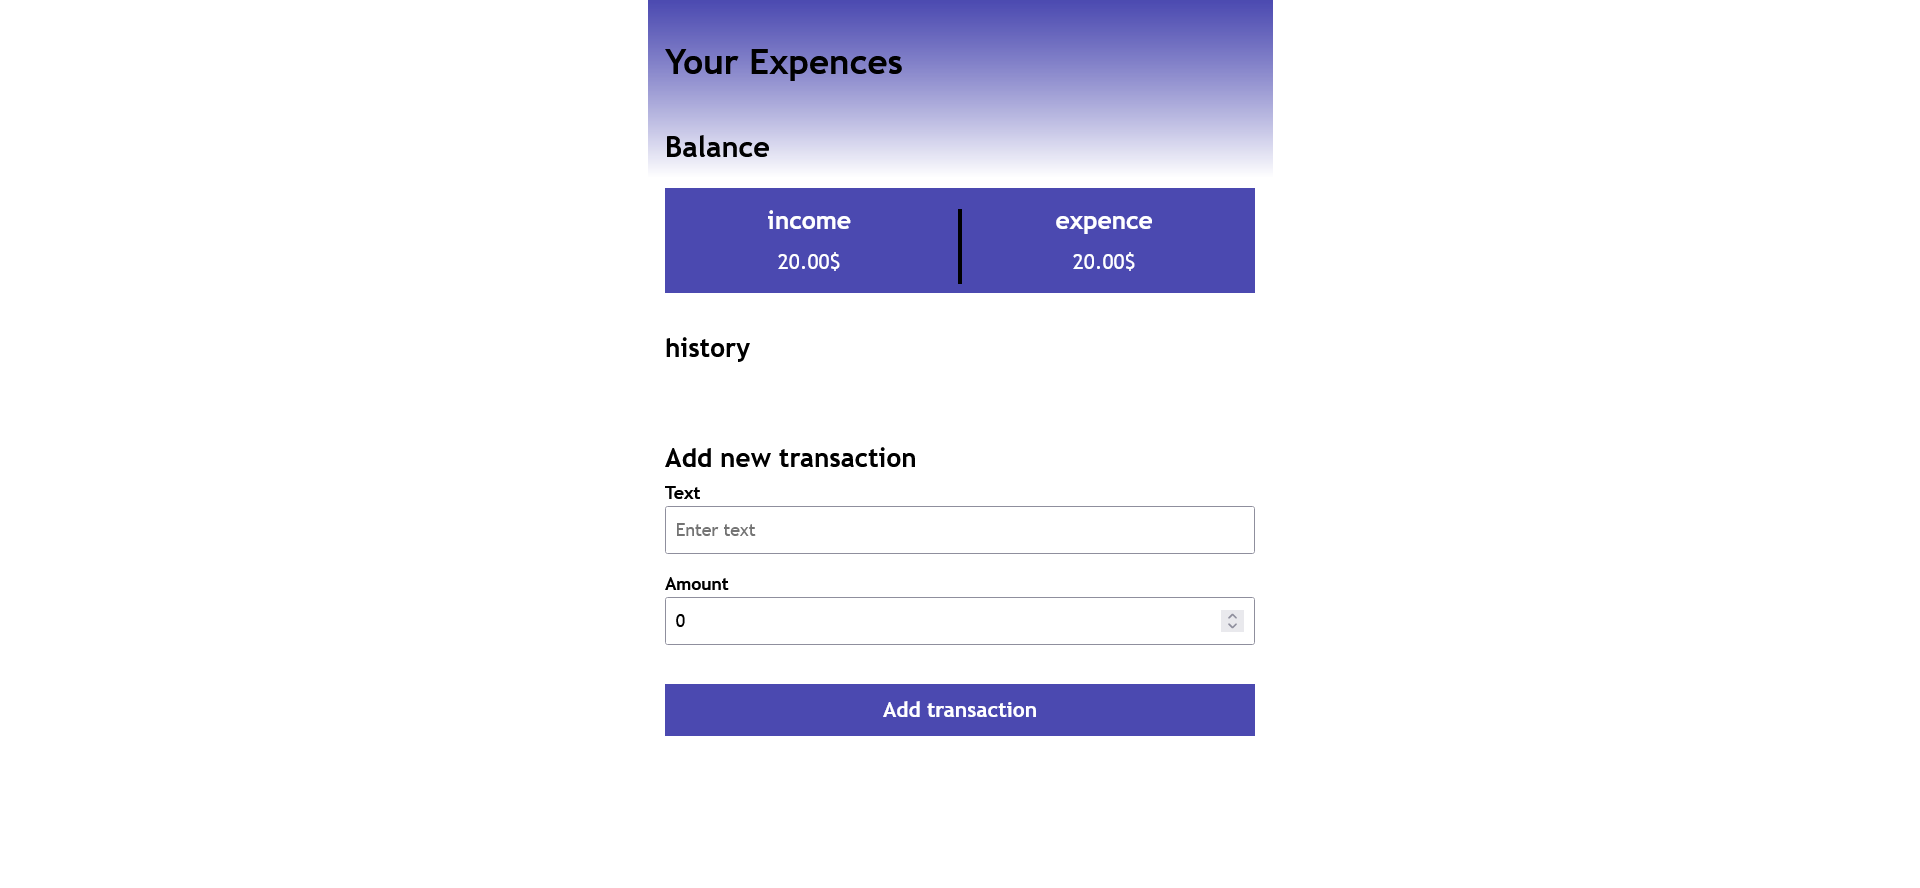
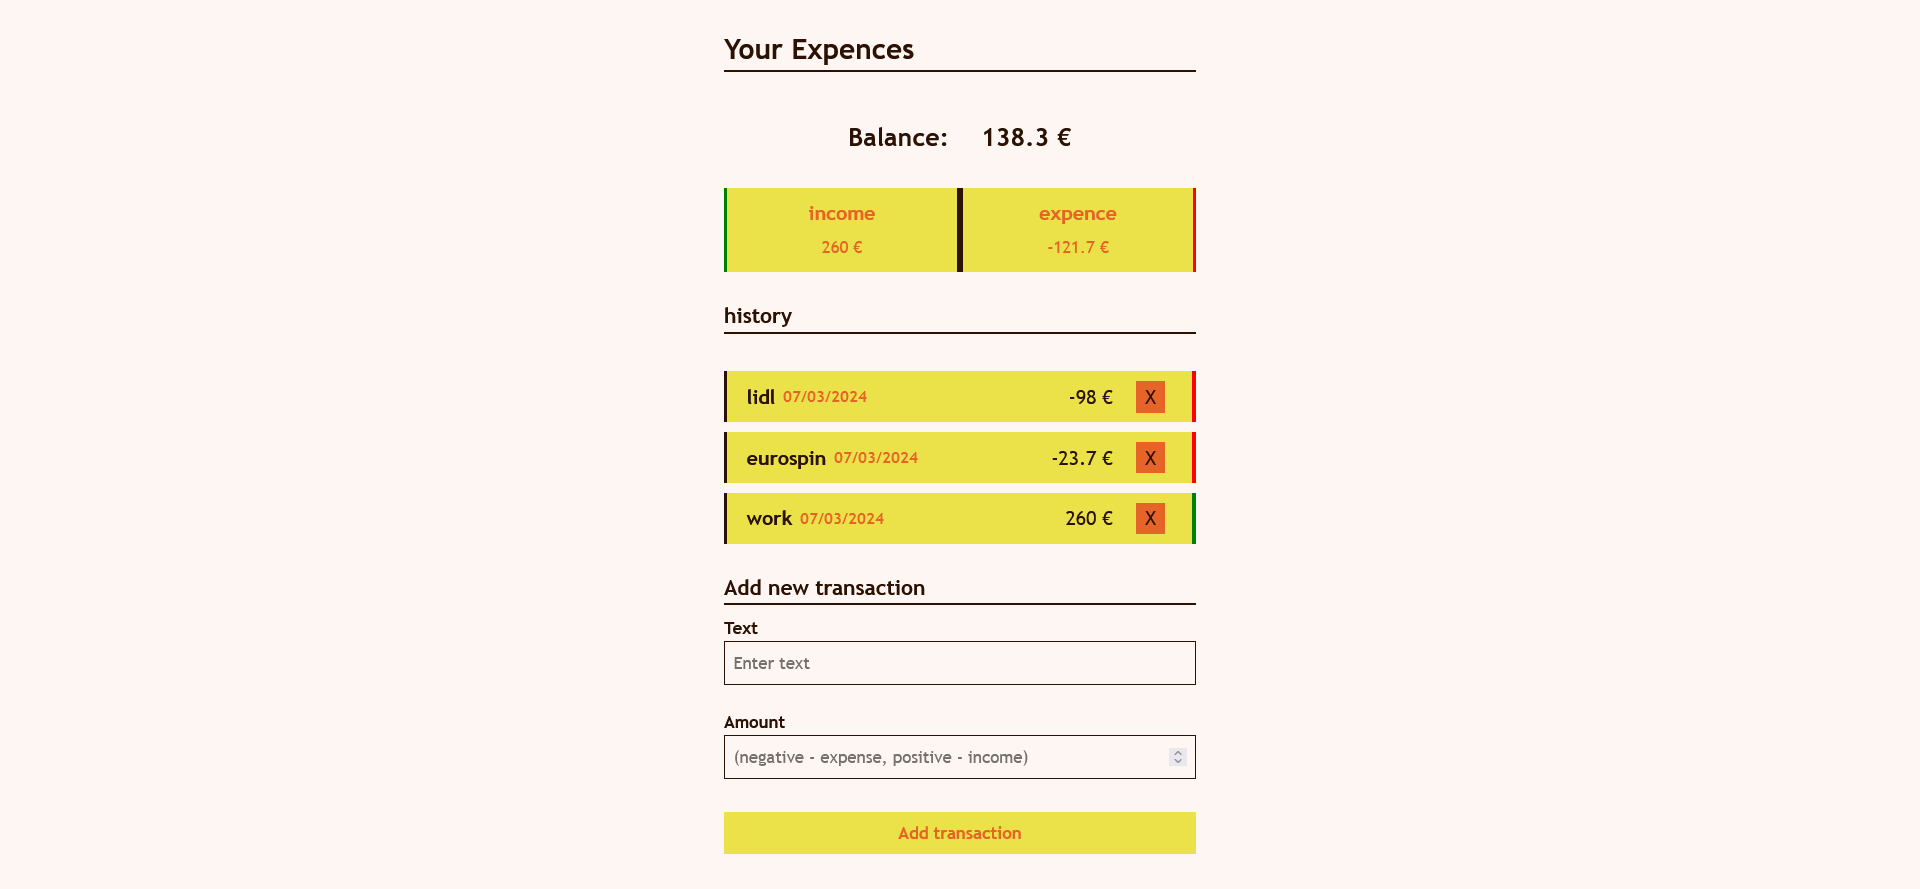
change screenshots

Changed region(s): [[0.3438, 0.2128, 0.6562, 0.8818], [0.3125, 0.0, 0.6875, 0.1824], [0.375, 0.9122, 0.625, 0.973]]

diff --git a/script.js b/script.js
@@ -1,5 +1,6 @@
 let storedHistory = JSON.parse(localStorage.getItem('history'));
 const historyArray = storedHistory || [];
+
 const transactionText = document.querySelector('.transaction-text');
 const transactionMoney = document.querySelector('.transaction-money');
 const transactionSubmit = document.querySelector('.transaction-submit');
@@ -26,10 +27,8 @@ function createElement(text, money) {
 	if (text && money) {
 		// create Date of saving
 		const time = new Date();
-		console.log(time);
 		const month = time.getMonth() + 1;
 		const day = time.getDate();
-		console.log(day);
 		const year = time.getFullYear();
 		const historyDate = `${day < 10 ? '0' + day : day}/${
 			month < 10 ? '0' + month : month
@@ -37,27 +36,32 @@ function createElement(text, money) {
 		//create Element
 		const div = document.createElement('div');
 		div.classList.add('history-detail');
+		div.style.backgroundImage =
+			money > 0
+				? `linear-gradient(90deg, rgba(0,128,0,1) 0%, rgb(253, 246, 242) 10%, rgb(253, 246, 242) 100%)`
+				: `linear-gradient(270deg, rgba(255,0,0,1) 0%, rgb(253, 246, 242) 10%, rgb(253, 246, 242) 100%)`;
+
 		const h4 = document.createElement('h4');
 		h4.classList.add('history-detail-title');
 		h4.innerText = text;
+
 		const dateElement = document.createElement('p');
 		dateElement.classList.add('date');
 		dateElement.innerText = historyDate;
+
 		const p = document.createElement('p');
 		p.classList.add('history-detail-money');
 		p.innerText = `${money} €`;
+
 		const button = document.createElement('button');
 		button.classList.add('button');
 		button.innerText = 'X';
 		button.addEventListener('click', () => remove(button));
-		const colorDiv = document.createElement('div');
-		colorDiv.classList.add('history-detail-color');
-		colorDiv.style.backgroundColor = money > 0 ? 'green' : 'red';
+
 		div.appendChild(h4);
 		div.appendChild(dateElement);
 		div.appendChild(p);
 		div.appendChild(button);
-		div.appendChild(colorDiv);
 		historySec.appendChild(div);
 		// creating an array of transactions
 		historyObj = {
@@ -89,27 +93,32 @@ function renderLocalStorage() {
 		storedHistory.forEach((item) => {
 			const div = document.createElement('div');
 			div.classList.add('history-detail');
+			div.style.background =
+				item.money > 0
+					? `linear-gradient(90deg, rgba(0,128,0,1) 0%, rgb(253, 246, 242) 10%, rgb(253, 246, 242) 100%)`
+					: `linear-gradient(270deg, rgba(255,0,0,1) 0%, rgb(253, 246, 242) 10%, rgb(253, 246, 242) 100%)`;
+
 			const h4 = document.createElement('h4');
 			h4.classList.add('history-detail-title');
 			h4.innerText = item.text;
+
 			const dateElement = document.createElement('p');
 			dateElement.classList.add('date');
 			dateElement.innerText = item.date;
+
 			const p = document.createElement('p');
 			p.classList.add('history-detail-money');
 			p.innerText = `${item.money} €`;
-			const colorDiv = document.createElement('div');
+
 			const button = document.createElement('button');
 			button.classList.add('button');
 			button.innerText = 'X';
 			button.setAttribute('data-id', item.id); // custom attribute for buttons
-			colorDiv.classList.add('history-detail-color');
-			colorDiv.style.backgroundColor = item.money > 0 ? 'green' : 'red';
+
 			div.appendChild(h4);
 			div.appendChild(dateElement);
 			div.appendChild(p);
 			div.appendChild(button);
-			div.appendChild(colorDiv);
 			historySec.appendChild(div);
 
 			const buttons = document.querySelectorAll('.button');

diff --git a/style.css b/style.css
@@ -63,8 +63,7 @@ select {
 
 :root {
 	--text-color: #2b1204;
-	--bg-color: #fdf6f2;
-	--accent-color: #eae248;
+	--bg-color: rgb(253, 246, 242);
 	--primary-color: #e66428;
 	--secondary-color: #f0d97f;
 }
@@ -139,20 +138,34 @@ body {
 
 .income,
 .expence {
-	background-color: var(--accent-color);
+	font-weight: 600;
+	background-color: var(--bg-color);
 	width: 100%;
-	font-size: 1.2em;
+	font-size: 1.3em;
 	line-height: 2em;
 	padding-block: 0.5em;
-	border-inline: 0.2em solid var(--text-color);
 }
 
 .income {
-	border-left: 0.2em solid green;
+	background: rgb(0, 128, 0);
+	background: linear-gradient(
+		90deg,
+		rgba(0, 128, 0, 1) 0%,
+		rgb(253, 246, 242) 30%,
+		rgb(253, 246, 242) 100%
+	);
+	border-left: 0.2em solid #008000;
 }
 
 .expence {
-	border-right: 0.2em solid red;
+	background: rgb(255, 0, 0);
+	background: linear-gradient(
+		270deg,
+		rgb(255, 0, 0) 0%,
+		rgb(253, 246, 242) 30%,
+		rgb(253, 246, 242) 100%
+	);
+	border-right: 0.2em solid hsl(0, 100%, 50%);
 }
 
 /* history section */
@@ -161,7 +174,14 @@ body {
 	border-bottom: 2px solid var(--text-color);
 }
 
+.history-detail-title {
+	/* min-width: 200px; */
+	max-width: 210px;
+	word-wrap: break-word;
+}
+
 .history-detail {
+	min-width: 440px;
 	font-size: 1.4em;
 
 	position: relative;
@@ -170,20 +190,15 @@ body {
 	justify-content: space-between;
 	align-items: center;
 
-	background-color: var(--accent-color);
 	color: var(--text-color);
 
 	margin-top: 0.5em;
 	padding: 0.5em 1em;
-	border-left: 0.2em solid var(--text-color);
 }
 
-.history-detail-color {
-	position: absolute;
-	background-color: green;
-	right: 0;
-	width: 0.2em;
-	height: 100%;
+.history-detail-money {
+	padding-left: 0.5em;
+	white-space: nowrap;
 }
 
 .date {
@@ -227,8 +242,9 @@ body {
 	font-weight: 700;
 	font-size: 1.2em;
 
-	background-color: var(--accent-color);
-	color: var(--primary-color);
+	outline: 2px solid var(--text-color);
+	background-color: var(--bg-color);
+	color: var(--text-color);
 
 	padding: 0.5em;
 	margin-block: 1em;
@@ -243,8 +259,7 @@ body {
 
 .button {
 	color: var(--text-color);
-	background-color: var(--primary-color);
-
+	outline: 2px solid var(--text-color);
 	margin-left: 1.2em;
 	margin-right: 0.6em;
 	padding-inline: 0.45em;
@@ -252,7 +267,6 @@ body {
 }
 
 .button:hover {
-	background-color: var(--text-color);
-	color: var(--primary-color);
+	background-color: var(--secondary-color);
 	cursor: pointer;
 }
